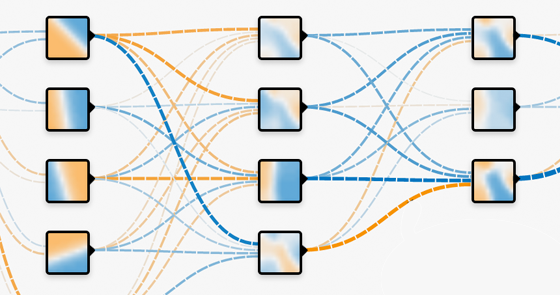
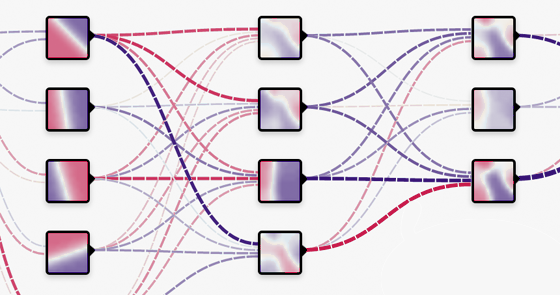
Deploy site build from master

diff --git a/bundle.css b/bundle.css
@@ -216,10 +216,31 @@ header {
 
 header h1 {
   font-size: 30px;
-  text-align: center;
+  text-align: left;
   margin-top: 14px;
   margin-bottom: 14px;
   -webkit-font-smoothing: antialiased;
+}
+
+/* Left-aligned title sitting next to a red parallelogram "swoosh" that bleeds
+   in from the window's left edge. skewY slants the top/bottom edges to 41deg
+   from horizontal while keeping the left and right (terminus) edges vertical. */
+.header-inner {
+  display: flex;
+  align-items: center;
+  justify-content: center;
+}
+
+.header-swoosh {
+  flex: none;
+  width: 54px;
+  height: 22px;
+  margin-right: 8px;
+  background-color: #C8194B;
+  /* Long enough that the lower (window-side) vertical edge runs entirely below
+     the header bottom (clipped), so only the two slanted edges meet the bottom
+     border. translateY keeps the terminus bottom just above the text baseline. */
+  transform: translateY(28px) skewY(-41deg);
 }
 
 header h1 .optional {
@@ -244,6 +265,12 @@ header h1 .optional {
     font-size: 34px;
     margin-top: 20px;
     margin-bottom: 20px;
+  }
+  .header-swoosh {
+    width: 72px;
+    height: 28px;
+    margin-right: 9px;
+    transform: translateY(35px) skewY(-41deg);
   }
 }
 

diff --git a/index.html b/index.html
@@ -43,7 +43,10 @@ limitations under the License.
 <body>
   <!-- Header -->
   <header>
-    <h1 class="l--page">TensorFlow Playground fork for having fun with</h1>
+    <div class="header-inner">
+      <span class="header-swoosh" aria-hidden="true"></span>
+      <h1>TensorFlow Playground fork for having fun with</h1>
+    </div>
   </header>
 
   <!-- Top Controls -->